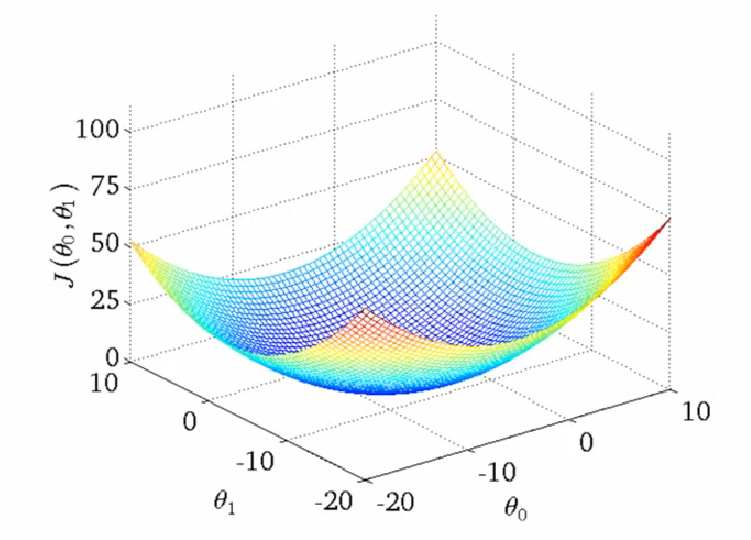
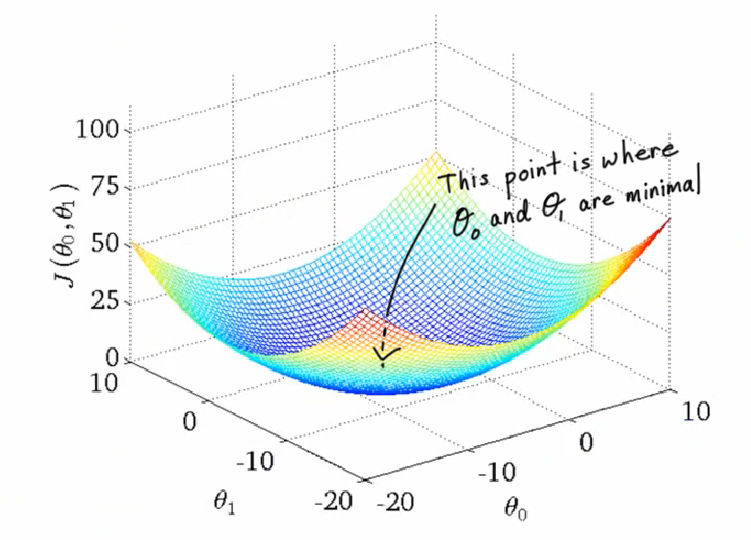
1) added label to cost function image 2) updated readme with new folder

Changed region(s): [[0.5513, 0.2667, 0.9494, 0.4444], [0.5206, 0.4444, 0.5513, 0.563], [0.49, 0.563, 0.5206, 0.6815]]

diff --git a/supervisedLearning/README.md b/supervisedLearning/README.md
@@ -11,3 +11,4 @@ supervisedLearning
     - WHOLE POINT: Find theta_0 & theta_1 so that h(x) is close to y for our training examples (x,y)
     - mathamatically this means we need to minimize (1/2m)(Sum from i = 1 to m of (h(x^(i))-y^(i))^2 ) where (1/2m) makes math easilier and (h(x^(i)) = theta_0 + theta_1 * x^(i)
     - math notation = minimize over theta_0, theta_1 the cost function J(theta_0, theta_1) also called the squared error function
+    - WHOLE POINT explained using a picture: https://github.com/quinnliu/MachineLearning/blob/master/imagesForExplanation/CostFunctionExampleWithTheta_0AndTheta_1.jpg 

diff --git a/README.md b/README.md
@@ -5,6 +5,9 @@ Definition of Machine Learning by Tom Mitchell
 
 "A computer program is said to learn from experience E with respect to some task T and some performance measure P, if its performance on T, as measured by P, improves with experience E."
 
+- folder ```imagesForExplanation```
+    + contains images used in other folder's README files for explanation
+
 - folder ```supervisedLearning```
     + SUPERVISED Learning = teach the computer how to learn
     + "right answers" are given for each example in data
